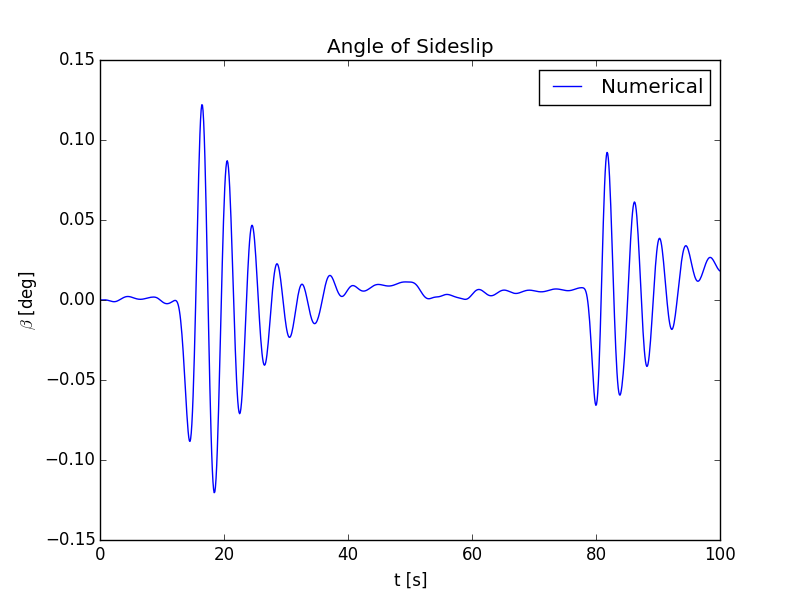
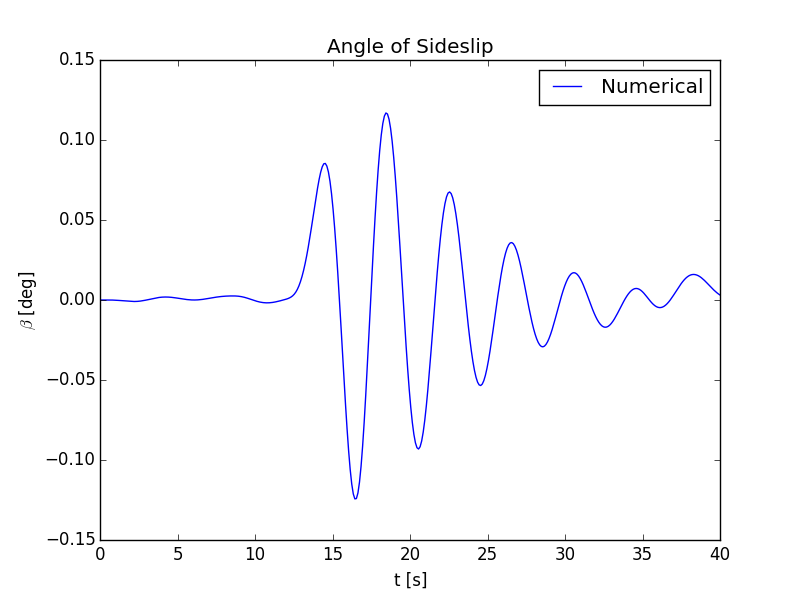
Beep Boop ik ben een robot

diff --git a/Data_cruncher.py b/Data_cruncher.py
@@ -44,7 +44,7 @@ class Motion:
         self.AoA                                =       AoA[self.index:self.index+(mt/step)]
         self.time                               =       np.linspace(self.index,self.index+(mt/step), num=len(self.deltae), endpoint=True, retstep=False)
         self.mt                                 =       mt
-        self.delta_r                            =       delta_r[self.index:self.index+(mt/step)]/180*np.pi
+        self.delta_r                            =       delta_r[self.index:self.index+(mt/step)]/-180*np.pi
         self.delta_r0                           =       np.average(self.delta_r[0:25])
         self.delta_r_stab                       =       self.delta_r-self.delta_r0
         self.delta_a                            =       delta_a[self.index:self.index+(mt/step)]/180*np.pi
@@ -77,16 +77,16 @@ Short_Period          =   Motion(short_time, short_mt)
 
 #dutch roll
 DutchRoll_time  =   3600.*1. + 60.*10. + 50.
-DutchRoll_mt    =   100
+DutchRoll_mt    =   40
 DutchRoll      =   Motion(DutchRoll_time, DutchRoll_mt)      
 
 #dutch roll YD
-DutchRollY_time =   3600.*1. + 60.*12. + 10.    
-DutchRollY_mt   =   100
+DutchRollY_time =   3600.*1. + 60.*12. + 5.    
+DutchRollY_mt   =   50
 DutchRollY    =   Motion(DutchRollY_time, DutchRollY_mt)
 
 #aper roll
-APR_time        =   3600.*1. + 60.*19. + 35.
+APR_time        =   3600.*1. + 60.*19. + 10.
 APR_mt          =   15
 AperiodicRollP  =   Motion(APR_time, APR_mt)
 

diff --git a/Numerical_Analysis_assymettric.py b/Numerical_Analysis_assymettric.py
@@ -9,7 +9,7 @@ import control.matlab as cs
 from Data_cruncher import *
 import matplotlib.pyplot as plt
 
-namem="Dutch Roll"
+namem="Aperiodic Roll"
 
 def Asymetric(name):
     
@@ -91,7 +91,7 @@ def Asymetric(name):
     plt.figure(1)
     plt.title('Roll Angle ')
     plt.plot(t, y2, label="Numerical")
-    plt.ylabel("$\Phi$ [deg]")
+    plt.ylabel("$\phi$ [deg]")
     plt.xlabel("t [s]")
     plt.plot(t, name.RollAngle, label="Experimental")
     plt.legend()
@@ -117,3 +117,19 @@ def Asymetric(name):
     plt.legend()
     plt.savefig((namem + "YawRate"))
     plt.show()   
+    
+    plt.figure(4)
+    plt.title("Aileron Deflection")
+    plt.plot(t, (name.delta_a_stab*180/np.pi))
+    plt.ylabel("$\delta_a$ [deg]")
+    plt.xlabel("t [s]")
+    plt.savefig((namem + "Ailerondeflection"))
+    plt.legend
+    
+    plt.figure(5)
+    plt.title("Rudder Deflection")
+    plt.plot(t, (name.delta_r_stab*180/np.pi))
+    plt.ylabel("$\delta_r$ [deg]")
+    plt.xlabel("t [s]")
+    plt.savefig((namem + "Rudder Deflection"))
+    plt.legend
